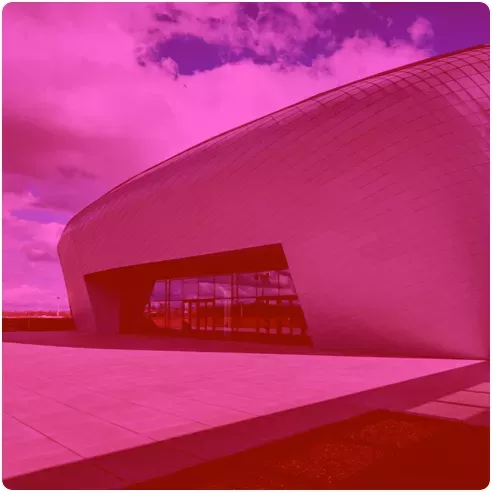
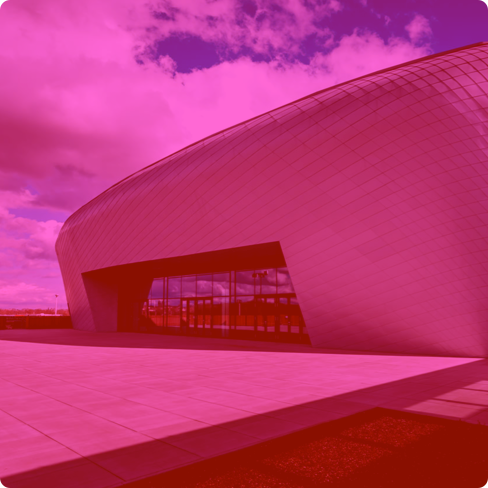
fix(frontpage): adjust neon effect
- thicker border line
- reduce intensity neon effect
- neon effect renders on top of its content

diff --git a/sass/app.scss b/sass/app.scss
@@ -197,7 +197,7 @@ body {
     .neon span {
       margin: 16px;
       text-transform: uppercase;
-      border: 3.2px solid var(--pink);
+      border: 4.8px solid var(--pink);
       @include neon-border-style(true);
       border-radius: 50%;
       width: 200px;
@@ -376,13 +376,20 @@ body {
       }
 
       .photo,
-      .photo-container {
+      .photo-neon {
         border-radius: 50%;
       }
 
       .photo-container {
-        border: 3.2px solid var(--pink);
-        @include neon-border-style(true);
+        position: relative;
+        .photo-neon {
+          position: absolute;
+          z-index: 2;
+          border: 3.8px solid var(--pink);
+          @include neon-border-style(true);
+          width: 100%;
+          height: 100%;
+        }
         display: flex;
         align-items: center;
         justify-content: center;
@@ -495,6 +502,20 @@ body {
 
     .image-venue-container {
       width: auto;
+      position: relative;
+      display: flex;
+      align-items: center;
+      justify-content: center;
+      .photo-neon {
+        position: absolute;
+        top: 0;
+        z-index: 2;
+        border: 3.8px solid var(--pink);
+        @include neon-border-style(true);
+        width: 100%;
+        height: 99%;
+        border-radius: 12px;
+      }
 
       @include desktop-only {
         grid-column: 1;
@@ -502,19 +523,27 @@ body {
         grid-row-end: 4;
       }
 
-      .image-venue {
-        --neon-padding: 8px;
-        @include desktop-only {
-          --neon-padding: 14px;
+      --neon-margin: 8px;
+      @include desktop-only {
+        --neon-margin: 10px;
+      }
+      --max-width-venue-img: calc(
+        min(100% - (var(--neon-margin) * 2), var(--min-max-venue-column))
+      );
+      max-width: var(--max-width-venue-img);
+      justify-self: center;
+
+      picture {
+        display: flex;
+        flex-direction: column;
+        align-items: center;
+
+        .image-venue {
+          border-radius: 8px;
+          border: 1px solid var(--white);
+          margin: var(--neon-margin);
+          max-width: var(--max-width-venue-img);
         }
-        --max-width-venue-img: calc(
-          min(100% - (var(--neon-padding) * 2), var(--min-max-venue-column))
-        );
-        border-radius: 8px;
-        border: 3.2px solid var(--pink);
-        @include neon-border-style(true);
-        padding: var(--neon-padding);
-        max-width: var(--max-width-venue-img);
       }
     }
 

diff --git a/templates/sections/speakers.html b/templates/sections/speakers.html
@@ -2,22 +2,29 @@
   <h3 class="pill-title">{{ section.extra.section.speakers.title }}</h3>
   <ul class="speakers-list">
     {% for speaker in section.extra.speakers %}
-    <li>
-      <div class="photo-container">
-        <picture>
-          <source srcset="/images/speakers/mobile/{{speaker.image}}.webp" media="(max-width: 640px)" />
-          <img alt="{{ speaker.name }} speaker profile photo" src="/images/speakers/{{speaker.image}}.webp"
-            class="photo" />
-        </picture>
-      </div>
-      <p>{{ speaker.name }}</p>
-      <div class="links">
-        <a href="https://twitter.com/{{ speaker.twitter }}" target="_blank" rel="noopener noreferrer"><img
-            alt="twitter icon" src="/images/icons/twitter-white.svg" /></a>
-        <a href="{{ speaker.web }}" target="_blank" rel="noopener noreferrer"><img alt="external link icon"
-            src="/images/icons/external-link-white.svg" /></a>
-      </div>
-    </li>
+      <li>
+        <div class="photo-container">
+          <picture>
+            <source srcset="/images/speakers/mobile/{{speaker.image}}.webp" media="(max-width: 640px)" />
+            <img
+              alt="{{ speaker.name }} speaker profile photo"
+              src="/images/speakers/{{speaker.image}}.webp"
+              class="photo" />
+          </picture>
+          <div class="photo-neon"></div>
+        </div>
+        <p>{{ speaker.name }}</p>
+        <div class="links">
+          <a
+            href="https://twitter.com/{{ speaker.twitter }}"
+            target="_blank"
+            rel="noopener noreferrer"><img alt="twitter icon" src="/images/icons/twitter-white.svg" /></a>
+          <a
+            href="{{ speaker.web }}"
+            target="_blank"
+            rel="noopener noreferrer"><img alt="external link icon" src="/images/icons/external-link-white.svg" /></a>
+        </div>
+      </li>
     {% endfor %}
   </ul>
 </section>

diff --git a/sass/mixins.scss b/sass/mixins.scss
@@ -72,8 +72,8 @@
 
 @mixin neon-border-style($intens: false) {
   @if $intens {
-    box-shadow: 0 0 26px 0 var(--pink), 0 0 26px 0 var(--pink),
-      inset 0px 0 36px 0 var(--pink), inset 0px 0 36px 0 var(--pink);
+    box-shadow: 0 0 26px 0 var(--pink), inset 0px 0 26px 0 var(--pink),
+      0 0 26px 0 var(--pink), inset 0px 0 26px 0 var(--pink);
   } @else {
     box-shadow: 0 0 26px 0 var(--pink);
   }

diff --git a/templates/sections/venue.html b/templates/sections/venue.html
@@ -5,6 +5,7 @@
 			<source srcset="/images/venue/mobile/venue.webp" media="(max-width: 640px)" />
 			<img class="image-venue" src="/images/venue/venue.webp" alt="venue picture" />
 		</picture>
+		<div class="photo-neon"></div>
 	</div>
 
 	<p>EuroRust will take place in Brussels, in the Docks Dome . The venue is located at
